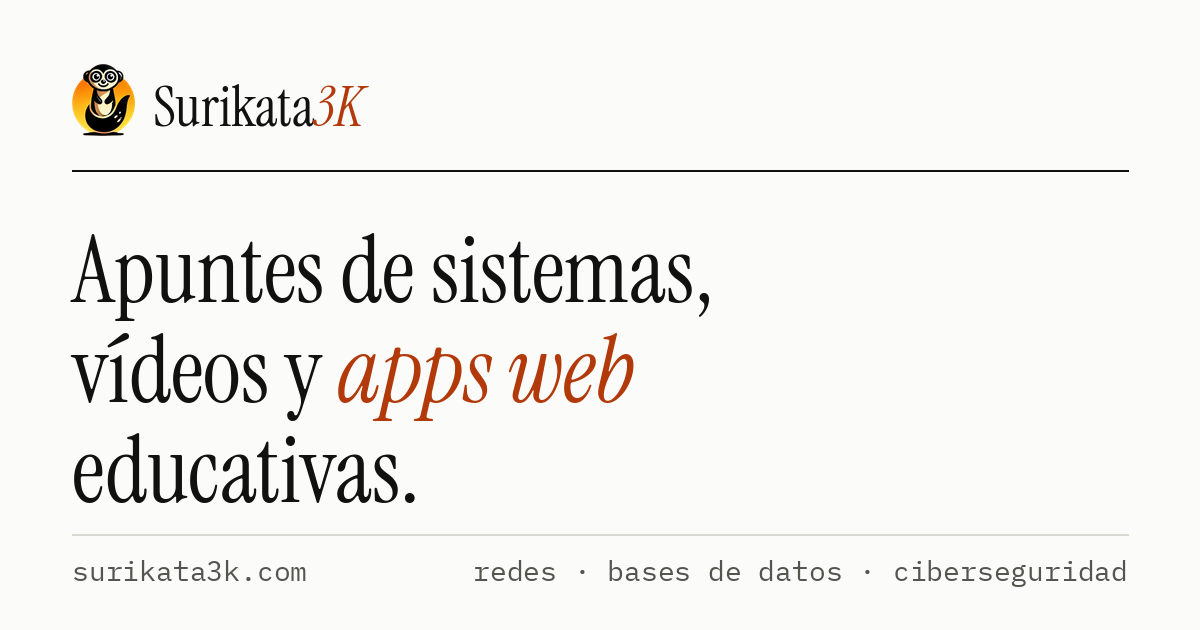
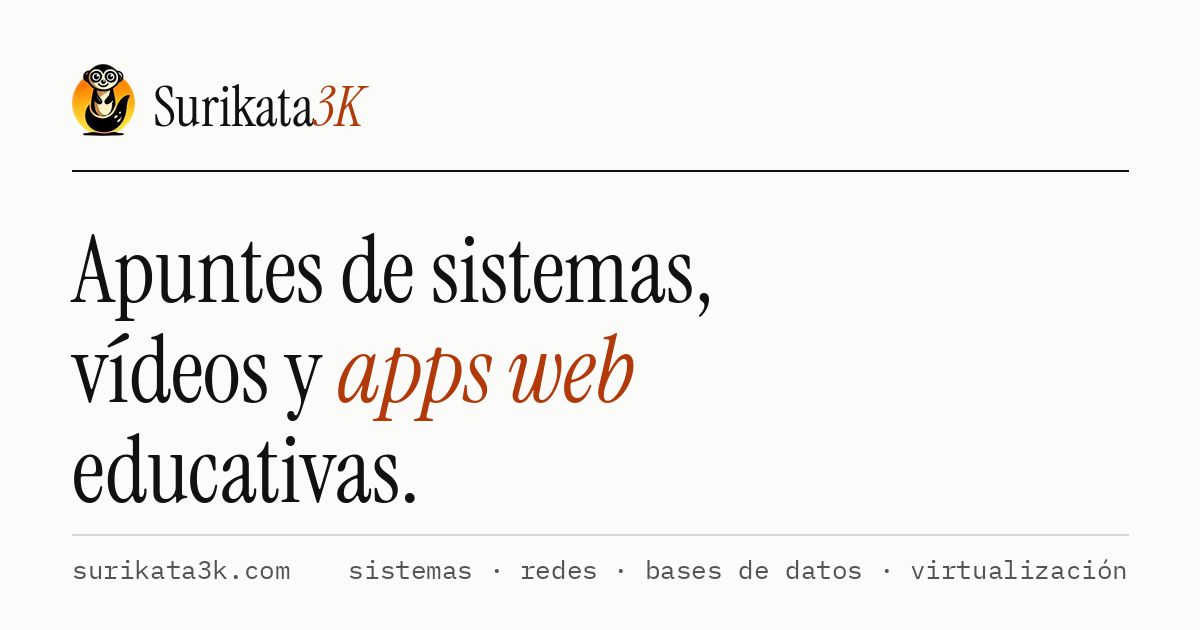
Actualiza los textos de la portada y quita referencias a FP
- Introducción y tarjeta de apuntes: sistemas operativos, redes, bases de datos, máquinas virtuales y contenedores
- Grupo «aula y docencia» renombrado a «utilidades»
- Planificador de horas de RA sin mención a FP
- Simulador de blockchain: ejemplos «¡Hola, mundo!» y «Entrega del proyecto»
- Corrige los nonces de la cadena de ejemplo (estaban minados para los textos en catalán y los bloques salían como no válidos)
- Imagen para redes sociales con la nueva línea de temas

Claude-Session: https://claude.ai/code/session_01XSeMz3gXUkmFiLmBEySuEB

Changed region(s): [[0.2775, 0.8746, 0.925, 0.9349], [0.0617, 0.8746, 0.2467, 0.9349]]

diff --git a/index.html b/index.html
@@ -4,14 +4,14 @@
 <meta charset="utf-8">
 <meta name="viewport" content="width=device-width, initial-scale=1.0">
 <title>Surikata3K · Apuntes de sistemas, vídeos y apps web educativas</title>
-<meta name="description" content="Apuntes de sistemas, redes y bases de datos, tutoriales en vídeo y apps web educativas gratuitas: generador de contraseñas, simulador de blockchain, criptografía y más.">
+<meta name="description" content="Apuntes de sistemas operativos, redes, bases de datos, máquinas virtuales y contenedores, tutoriales en vídeo y apps web gratuitas: generador de contraseñas, simulador de blockchain, criptografía y más.">
 <link rel="canonical" href="https://surikata3k.com/">
 <meta name="theme-color" content="#FBFBF9">
 <meta property="og:type" content="website">
 <meta property="og:site_name" content="Surikata3K">
 <meta property="og:locale" content="es_ES">
 <meta property="og:title" content="Surikata3K · Apuntes de sistemas, vídeos y apps web educativas">
-<meta property="og:description" content="Apuntes de sistemas, redes y bases de datos, tutoriales en vídeo y apps web educativas que funcionan en el navegador.">
+<meta property="og:description" content="Apuntes de sistemas operativos, redes, bases de datos, máquinas virtuales y contenedores, tutoriales en vídeo y apps web que funcionan en el navegador.">
 <meta property="og:url" content="https://surikata3k.com/">
 <meta property="og:image" content="https://surikata3k.com/img/og-image.png">
 <meta property="og:image:width" content="1200">
@@ -24,7 +24,7 @@
 <link rel="preconnect" href="https://fonts.googleapis.com">
 <link rel="preconnect" href="https://fonts.gstatic.com" crossorigin>
 <link href="https://fonts.googleapis.com/css2?family=Instrument+Serif:ital@0;1&family=IBM+Plex+Sans:wght@400;500;600&family=IBM+Plex+Mono:wght@400;500&display=swap" rel="stylesheet">
-<script type="application/ld+json">{"@context": "https://schema.org", "@graph": [{"@type": "WebSite", "@id": "https://surikata3k.com/#website", "url": "https://surikata3k.com/", "name": "Surikata3K", "description": "Apuntes de sistemas, redes y bases de datos, vídeos tutoriales y apps web educativas que funcionan en el navegador.", "inLanguage": "es", "publisher": {"@id": "https://surikata3k.com/#autor"}}, {"@type": "Person", "@id": "https://surikata3k.com/#autor", "name": "Surikata3K", "url": "https://surikata3k.com/", "image": "https://surikata3k.com/img/logo.png", "email": "mailto:hello@surikata3k.com", "sameAs": ["https://www.youtube.com/@Surikata3K", "https://github.com/surikata3k", "https://docs.surikata3k.com/"]}, {"@type": "ItemList", "name": "Apps web de Surikata3K", "itemListElement": [{"@type": "ListItem", "position": 1, "name": "Dits Màgics", "url": "https://surikata3k.com/ditsmagics/"}, {"@type": "ListItem", "position": 2, "name": "Planificador de horas de RA", "url": "https://surikata3k.com/apps/horas-ra/"}, {"@type": "ListItem", "position": 3, "name": "PassForge", "url": "https://surikata3k.com/apps/passforge/"}, {"@type": "ListItem", "position": 4, "name": "Generador de contraseñas", "url": "https://surikata3k.com/apps/generador-contrasenas/"}, {"@type": "ListItem", "position": 5, "name": "Analizador de contraseñas", "url": "https://surikata3k.com/apps/analizador-contrasenas/"}, {"@type": "ListItem", "position": 6, "name": "Calculadora de entropía", "url": "https://surikata3k.com/apps/calculadora-entropia/"}, {"@type": "ListItem", "position": 7, "name": "Simulador de clave asimétrica", "url": "https://surikata3k.com/apps/clave-asimetrica/"}, {"@type": "ListItem", "position": 8, "name": "Simulador de blockchain", "url": "https://surikata3k.com/apps/blockchain/"}]}]}</script>
+<script type="application/ld+json">{"@context": "https://schema.org", "@graph": [{"@type": "WebSite", "@id": "https://surikata3k.com/#website", "url": "https://surikata3k.com/", "name": "Surikata3K", "description": "Apuntes de sistemas operativos, redes, bases de datos, máquinas virtuales y contenedores, vídeos tutoriales y apps web que funcionan en el navegador.", "inLanguage": "es", "publisher": {"@id": "https://surikata3k.com/#autor"}}, {"@type": "Person", "@id": "https://surikata3k.com/#autor", "name": "Surikata3K", "url": "https://surikata3k.com/", "image": "https://surikata3k.com/img/logo.png", "email": "mailto:hello@surikata3k.com", "sameAs": ["https://www.youtube.com/@Surikata3K", "https://github.com/surikata3k", "https://docs.surikata3k.com/"]}, {"@type": "ItemList", "name": "Apps web de Surikata3K", "itemListElement": [{"@type": "ListItem", "position": 1, "name": "Dits Màgics", "url": "https://surikata3k.com/ditsmagics/"}, {"@type": "ListItem", "position": 2, "name": "Planificador de horas de RA", "url": "https://surikata3k.com/apps/horas-ra/"}, {"@type": "ListItem", "position": 3, "name": "PassForge", "url": "https://surikata3k.com/apps/passforge/"}, {"@type": "ListItem", "position": 4, "name": "Generador de contraseñas", "url": "https://surikata3k.com/apps/generador-contrasenas/"}, {"@type": "ListItem", "position": 5, "name": "Analizador de contraseñas", "url": "https://surikata3k.com/apps/analizador-contrasenas/"}, {"@type": "ListItem", "position": 6, "name": "Calculadora de entropía", "url": "https://surikata3k.com/apps/calculadora-entropia/"}, {"@type": "ListItem", "position": 7, "name": "Simulador de clave asimétrica", "url": "https://surikata3k.com/apps/clave-asimetrica/"}, {"@type": "ListItem", "position": 8, "name": "Simulador de blockchain", "url": "https://surikata3k.com/apps/blockchain/"}]}]}</script>
 <style>
   :root {
     --bg: #FBFBF9;
@@ -144,7 +144,7 @@
   <main>
     <section class="hero">
       <h1>Apuntes de sistemas, vídeos y <em>apps web</em> educativas.</h1>
-      <p class="intro">Material para aprender administración de sistemas, redes, bases de datos y ciberseguridad, pensado para el ciclo de ASIX de FP: apuntes organizados por temas, tutoriales paso a paso y herramientas interactivas que funcionan en el navegador.</p>
+      <p class="intro">Material para aprender sistemas operativos, redes, bases de datos, máquinas virtuales y contenedores: apuntes organizados por temas, tutoriales paso a paso y herramientas interactivas que funcionan en el navegador.</p>
     </section>
 
     <section class="section" aria-labelledby="donde">
@@ -152,7 +152,7 @@
       <div class="channels">
         <a class="card channel" href="https://docs.surikata3k.com/">
           <span class="name">Apuntes</span>
-          <span class="desc">Apuntes de sistemas, redes y bases de datos (Linux, PostgreSQL…), organizados por temas.</span>
+          <span class="desc">Apuntes de sistemas operativos, redes, bases de datos, máquinas virtuales y contenedores, organizados por temas.</span>
           <span class="arrow" aria-hidden="true">→</span>
         </a>
         <a class="card channel" href="https://www.youtube.com/@Surikata3K" target="_blank" rel="noopener">
@@ -175,10 +175,10 @@
       </div>
 
       <div class="group">
-        <h3>aula y docencia</h3>
+        <h3>utilidades</h3>
         <ul>
           <li><a class="card app" href="/ditsmagics/"><span class="name">Dits Màgics</span><span class="desc">Mecanografía en catalán para niños y niñas, con 43 niveles y estrellas que ganar.</span><span class="arrow" aria-hidden="true">→</span></a></li>
-          <li><a class="card app" href="/apps/horas-ra/"><span class="name">Planificador de horas de RA</span><span class="desc">Reparte las horas de los resultados de aprendizaje de un módulo de FP en el calendario lectivo.</span><span class="arrow" aria-hidden="true">→</span></a></li>
+          <li><a class="card app" href="/apps/horas-ra/"><span class="name">Planificador de horas de RA</span><span class="desc">Reparte las horas de cada resultado de aprendizaje en el calendario lectivo, teniendo en cuenta festivos y horario semanal.</span><span class="arrow" aria-hidden="true">→</span></a></li>
         </ul>
       </div>
 

diff --git a/apps/horas-ra/index.html b/apps/horas-ra/index.html
@@ -3,18 +3,18 @@
 <head>
     <meta charset="UTF-8">
     <meta name="viewport" content="width=device-width, initial-scale=1.0">
-    <title>Planificador de horas de RA para módulos de FP · Surikata3K</title>
-    <meta name="description" content="Reparte automáticamente las horas de los resultados de aprendizaje (RA) de un módulo de FP en el calendario lectivo, teniendo en cuenta festivos y horario. Exporta a CSV y TXT.">
+    <title>Planificador de horas de RA en el calendario lectivo · Surikata3K</title>
+    <meta name="description" content="Reparte automáticamente las horas de cada resultado de aprendizaje (RA) en el calendario lectivo, teniendo en cuenta festivos y horario semanal. Exporta a CSV y TXT.">
     <link rel="canonical" href="https://surikata3k.com/apps/horas-ra/">
     <meta property="og:type" content="website">
     <meta property="og:site_name" content="Surikata3K">
     <meta property="og:locale" content="es_ES">
-    <meta property="og:title" content="Planificador de horas de RA para módulos de FP">
-    <meta property="og:description" content="Reparte automáticamente las horas de los resultados de aprendizaje (RA) de un módulo de FP en el calendario lectivo, teniendo en cuenta festivos y horario. Exporta a CSV y TXT.">
+    <meta property="og:title" content="Planificador de horas de RA en el calendario lectivo">
+    <meta property="og:description" content="Reparte automáticamente las horas de cada resultado de aprendizaje (RA) en el calendario lectivo, teniendo en cuenta festivos y horario semanal. Exporta a CSV y TXT.">
     <meta property="og:url" content="https://surikata3k.com/apps/horas-ra/">
     <meta property="og:image" content="https://surikata3k.com/img/og-image.png">
     <meta name="twitter:card" content="summary_large_image">
-    <script type="application/ld+json">{"@context": "https://schema.org", "@type": "WebApplication", "name": "Planificador de horas de RA", "url": "https://surikata3k.com/apps/horas-ra/", "description": "Reparte automáticamente las horas de los resultados de aprendizaje (RA) de un módulo de FP en el calendario lectivo, teniendo en cuenta festivos y horario. Exporta a CSV y TXT.", "applicationCategory": "EducationalApplication", "operatingSystem": "Cualquiera (navegador web)", "inLanguage": "es", "isAccessibleForFree": true, "offers": {"@type": "Offer", "price": "0", "priceCurrency": "EUR"}, "author": {"@type": "Person", "name": "Surikata3K", "url": "https://surikata3k.com/"}, "license": "https://creativecommons.org/licenses/by-nc-sa/4.0/deed.es"}</script>
+    <script type="application/ld+json">{"@context": "https://schema.org", "@type": "WebApplication", "name": "Planificador de horas de RA", "url": "https://surikata3k.com/apps/horas-ra/", "description": "Reparte automáticamente las horas de cada resultado de aprendizaje (RA) en el calendario lectivo, teniendo en cuenta festivos y horario semanal. Exporta a CSV y TXT.", "applicationCategory": "EducationalApplication", "operatingSystem": "Cualquiera (navegador web)", "inLanguage": "es", "isAccessibleForFree": true, "offers": {"@type": "Offer", "price": "0", "priceCurrency": "EUR"}, "author": {"@type": "Person", "name": "Surikata3K", "url": "https://surikata3k.com/"}, "license": "https://creativecommons.org/licenses/by-nc-sa/4.0/deed.es"}</script>
     <!-- Tailwind CSS CDN -->
     <script src="https://cdn.tailwindcss.com"></script>
     <!-- Lucide Icons -->

diff --git a/apps/blockchain/index.html b/apps/blockchain/index.html
@@ -146,7 +146,7 @@ footer a{color:var(--accent)}
     </div>
     <div class="hashpad">
       <label class="lab" for="hash-in">Datos</label>
-      <textarea id="hash-in">Hola, ASIX!</textarea>
+      <textarea id="hash-in">¡Hola, mundo!</textarea>
       <span class="lab">Hash</span>
       <div class="hashv big" id="hash-out"></div>
       <span class="meta" id="hash-meta"></span>
@@ -341,8 +341,8 @@ function renderChain(chain, host) {
 }
 
 /* ---------- Dades inicials (nonces minats per a dificultat 4) ---------- */
-const CHAIN_DATA = ['Bloque génesis', 'Clase de bases de datos', 'Práctica de redes', 'Examen de la UF1', 'Proyecto final'];
-const CHAIN_NONCES = [88772, 28648, 27556, 18394, 327706];
+const CHAIN_DATA = ['Bloque génesis', 'Clase de bases de datos', 'Práctica de redes', 'Entrega del proyecto', 'Proyecto final'];
+const CHAIN_NONCES = [100630, 91831, 12548, 17493, 16245];
 const TOKENS = [
   [[25,'Anna','Pau'],[4.27,'Marta','Jordi'],[19.22,'Laia','Biel']],
   [[10,'Pau','Marta'],[7.5,'Jordi','Anna'],[3,'Biel','Laia']],
@@ -363,7 +363,7 @@ const updHash = () => {
 hin.addEventListener('input', updHash); updHash();
 
 // Bloc
-const solo = makeChain(['Hola, ASIX!'], [62897], { noPrev: true, solo: true });
+const solo = makeChain(['¡Hola, mundo!'], [189], { noPrev: true, solo: true });
 renderChain(solo, document.getElementById('bloc-host'));
 
 // Cadena

diff --git a/README.md b/README.md
@@ -1,14 +1,14 @@
 # Surikata3K
 
-Código de **[surikata3k.com](https://surikata3k.com)**, la página principal de mis proyectos: apuntes de sistemas, vídeos de YouTube y apps web educativas.
+Código de **[surikata3k.com](https://surikata3k.com)**, la página principal de mis proyectos: apuntes de sistemas, vídeos de YouTube y apps web.
 
 ## Qué hay en la web
 
-- **Apuntes**: sistemas, redes y bases de datos, en [docs.surikata3k.com](https://docs.surikata3k.com/)
+- **Apuntes**: sistemas operativos, redes, bases de datos, máquinas virtuales y contenedores, en [docs.surikata3k.com](https://docs.surikata3k.com/)
 - **Vídeos**: el canal [@Surikata3K](https://www.youtube.com/@Surikata3K) de YouTube
 - **Código**: todo en [GitHub](https://github.com/surikata3k/)
 - **Apps**: pequeñas apps que funcionan en el navegador, sin instalar nada ni servidor:
-  - *aula y docencia*: [Dits Màgics](https://surikata3k.com/ditsmagics/), [Planificador de horas de RA](https://surikata3k.com/apps/horas-ra/)
+  - *utilidades*: [Dits Màgics](https://surikata3k.com/ditsmagics/), [Planificador de horas de RA](https://surikata3k.com/apps/horas-ra/)
   - *contraseñas*: [PassForge](https://surikata3k.com/apps/passforge/), [Generador](https://surikata3k.com/apps/generador-contrasenas/), [Analizador](https://surikata3k.com/apps/analizador-contrasenas/), [Calculadora de entropía](https://surikata3k.com/apps/calculadora-entropia/)
   - *criptografía y seguridad*: [Simulador de clave asimétrica](https://surikata3k.com/apps/clave-asimetrica/) (con [las matemáticas de RSA](https://surikata3k.com/apps/clave-asimetrica/matematicas.html)), [Simulador de blockchain](https://surikata3k.com/apps/blockchain/)
 
